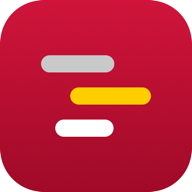
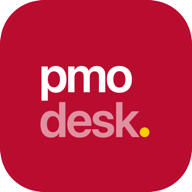
Add files via upload

Changed region(s): [[0.1875, 0.2812, 0.8125, 0.7188], [0.125, 0.9375, 0.875, 1.0]]

diff --git a/js/app.js b/js/app.js
@@ -27,12 +27,12 @@ export const app = {
 
 // ---------- Modal y toast ----------
 const modalEl = document.getElementById('modal');
-export function openModal(title, bodyHTML, { onSubmit, submitLabel = 'Guardar', onOpen, extraFooter = '' } = {}) {
+export function openModal(title, bodyHTML, { onSubmit, submitLabel = 'Guardar', onOpen, extraFooter = '', cancelLabel = 'Cancelar' } = {}) {
   modalEl.innerHTML = `
     <form class="sheet" novalidate>
       <header><h2>${esc(title)}</h2><button type="button" class="btn icon" data-close aria-label="Cerrar">${icon('x')}</button></header>
       <div class="body">${bodyHTML}</div>
-      <footer>${extraFooter}<button type="button" class="btn" data-close>Cancelar</button>
+      <footer>${extraFooter}<button type="button" class="btn ${onSubmit ? '' : 'primary'}" data-close>${esc(cancelLabel)}</button>
         ${onSubmit ? `<button type="submit" class="btn primary">${esc(submitLabel)}</button>` : ''}</footer>
     </form>`;
   modalEl.hidden = false;
@@ -196,6 +196,78 @@ window.addEventListener('hashchange', () => {
   app._keepScroll = true;
 });
 
+// Pantalla de bienvenida (≈3 s, un toque la adelanta al final):
+//   1. aparece el punto amarillo al centro
+//   2. el punto se recorre a la derecha y devela «desk»
+//   3. «pmo» sale de detrás de «desk» subiendo a su lugar
+//   4. el punto se expande a toda la pantalla y la intro se desvanece
+function runSplash() {
+  const el = document.getElementById('splash');
+  if (!el) return;
+  try { sessionStorage.setItem('pmo-splash', '1'); } catch { /* sin almacenamiento */ }
+  const $ = s => el.querySelector(s);
+  const dot = $('.dot'), desk = $('.desk'), pmo = $('.pmo'), tag = $('.splash-tag');
+  const remove = () => el.remove();
+
+  if (matchMedia('(prefers-reduced-motion: reduce)').matches || !dot.animate) {
+    el.classList.add('static');
+    setTimeout(() => { el.style.transition = 'opacity .3s'; el.style.opacity = '0'; setTimeout(remove, 350); }, 1000);
+    el.addEventListener('click', remove, { once: true });
+    return;
+  }
+
+  const box = el.getBoundingClientRect();
+  const d = dot.getBoundingClientRect();
+  const k = desk.getBoundingClientRect();
+  const cx = box.width / 2, cy = box.height / 2;
+  // Al inicio el logotipo se corre para que el borde izquierdo de «desk» quede al centro de la pantalla,
+  // justo donde nace el punto. Luego el punto avanza a la derecha y «desk» se devela detrás de él
+  // mientras el logotipo vuelve a quedar centrado.
+  const shift = cx - k.left;
+  const dx = k.left - (d.left + d.width / 2), dy = cy - (d.top + d.height / 2);
+  const t = (delay, duration, easing) => ({ delay, duration, easing, fill: 'both' });
+  const ease = 'cubic-bezier(.65,0,.35,1)';
+  const logo = $('.splash-logo');
+
+  const anims = [
+    logo.animate([{ transform: `translateX(${shift}px)` }, { transform: 'translateX(0px)' }], t(675, 725, ease)),
+    dot.animate([
+      { transform: `translate(${dx}px, ${dy}px) scale(0)`, offset: 0, easing: 'cubic-bezier(.3,1.6,.5,1)' },
+      { transform: `translate(${dx}px, ${dy}px) scale(1)`, offset: 0.32 },
+      { transform: `translate(${dx}px, ${dy}px) scale(1)`, offset: 0.42, easing: ease },
+      { transform: 'translate(0px, 0px) scale(1)', offset: 1 }
+    ], t(150, 1250)),
+    desk.animate([
+      { clipPath: `inset(-20% ${k.width}px -20% 0px)` },
+      { clipPath: 'inset(-20% 0px -20% 0px)' }
+    ], t(675, 725, ease)),
+    pmo.animate([{ transform: 'translateY(115%)' }, { transform: 'translateY(0%)' }], t(1400, 650, 'cubic-bezier(.2,.9,.3,1)')),
+    tag.animate([{ opacity: 0, transform: 'translateY(6px)' }, { opacity: 1, transform: 'none' }], t(1750, 450, 'ease'))
+  ];
+
+  let leaving = false;
+  function leave(delay) {
+    if (leaving) return;
+    leaving = true;
+    if (delay === 0) anims.forEach(a => a.finish());
+    // Capa amarilla a pantalla completa recortada en círculo desde el punto: crece nítida, sin pixelarse.
+    const r = dot.getBoundingClientRect();
+    const x = r.left + r.width / 2 - box.left, y = r.top + r.height / 2 - box.top;
+    const R = Math.hypot(Math.max(x, box.width - x), Math.max(y, box.height - y)) + 2;
+    const fill = document.createElement('div');
+    fill.className = 'splash-fill';
+    el.appendChild(fill);
+    fill.animate([
+      { clipPath: `circle(${r.width / 2}px at ${x}px ${y}px)` },
+      { clipPath: `circle(${R}px at ${x}px ${y}px)` }
+    ], t(delay, 650, 'cubic-bezier(.7,0,.84,0)'));
+    el.animate([{ opacity: 1 }, { opacity: 0 }], t(delay + 620, 420, 'ease')).finished.then(remove, remove);
+  }
+  anims[0].finished.then(() => setTimeout(() => leave(0), 1000)).catch(() => {});
+  el.addEventListener('click', () => leave(0), { once: true });
+}
+runSplash();
+
 async function init() {
   app.state = await loadState();
   app.route = parseHash();
@@ -207,4 +279,6 @@ async function init() {
   }
 }
 
+import { initInstall } from './install.js';
 init();
+initInstall();

diff --git a/js/install.js b/js/install.js
@@ -1,0 +1,74 @@
+// Instalación en la pantalla de inicio (PWA).
+// Android / Chrome / Edge: usa el diálogo nativo de instalación.
+// iPhone / iPad: Apple no permite instalar con un botón, así que se muestran los pasos guiados.
+import { openModal, toast } from './app.js';
+
+let deferredPrompt = null;
+const DISMISS_KEY = 'pmo-install-dismissed';
+
+export const isStandalone = () =>
+  matchMedia('(display-mode: standalone)').matches || navigator.standalone === true;
+const ua = navigator.userAgent;
+const isIOS = /iphone|ipad|ipod/i.test(ua) || (navigator.platform === 'MacIntel' && navigator.maxTouchPoints > 1);
+const isIOSSafari = isIOS && !/crios|fxios|edgios/i.test(ua);
+const isMobile = isIOS || /android/i.test(ua);
+
+export const canInstall = () => !isStandalone() && (!!deferredPrompt || isIOS || isMobile);
+
+const shareIcon = `<svg viewBox="0 0 24 24" width="18" height="18" fill="none" stroke="currentColor" stroke-width="2" stroke-linecap="round" stroke-linejoin="round" style="vertical-align:-3px;color:#0a84ff"><path d="M12 3v12M8 7l4-4 4 4"/><path d="M6 11H5a2 2 0 0 0-2 2v6a2 2 0 0 0 2 2h14a2 2 0 0 0 2-2v-6a2 2 0 0 0-2-2h-1"/></svg>`;
+const plusIcon = `<svg viewBox="0 0 24 24" width="18" height="18" fill="none" stroke="currentColor" stroke-width="2" stroke-linecap="round" style="vertical-align:-3px"><rect x="3" y="3" width="18" height="18" rx="4"/><path d="M12 8v8M8 12h8"/></svg>`;
+
+export async function installApp() {
+  if (isStandalone()) return toast('La app ya está instalada');
+  if (deferredPrompt) {
+    deferredPrompt.prompt();
+    const { outcome } = await deferredPrompt.userChoice;
+    deferredPrompt = null;
+    hideBanner();
+    if (outcome === 'accepted') toast('¡Listo! Búscala en tu pantalla de inicio');
+    return;
+  }
+  const steps = isIOS
+    ? `${!isIOSSafari ? '<p class="notice">Para instalarla en iPhone, abre esta página en <b>Safari</b>.</p>' : ''}
+       <ol class="install-steps">
+         <li><span>1</span><div>Toca el botón <b>Compartir</b> ${shareIcon} en la barra de Safari (abajo, o arriba en iPad).</div></li>
+         <li><span>2</span><div>Desliza hacia abajo y toca <b>Agregar a inicio</b> ${plusIcon}.</div></li>
+         <li><span>3</span><div>Toca <b>Agregar</b>. El ícono de PMO Desk aparecerá en tu pantalla de inicio.</div></li>
+       </ol>`
+    : `<ol class="install-steps">
+         <li><span>1</span><div>Abre el menú del navegador <b>⋮</b> (arriba a la derecha).</div></li>
+         <li><span>2</span><div>Toca <b>Instalar app</b> o <b>Agregar a la pantalla principal</b>.</div></li>
+         <li><span>3</span><div>Confirma con <b>Instalar</b>.</div></li>
+       </ol>
+       <p class="small muted">En PC: usa el ícono de instalar en la barra de direcciones de Chrome o Edge.</p>`;
+  openModal('Instalar PMO Desk', `
+    <div style="display:flex;gap:14px;align-items:center;margin-bottom:14px">
+      <img src="icons/icon-192.png" alt="" width="56" height="56" style="border-radius:13px;box-shadow:0 2px 8px rgba(0,0,0,.15)">
+      <div><b>PMO Desk</b><div class="small muted">Funciona sin internet y se abre a pantalla completa, como cualquier app.</div></div>
+    </div>${steps}`, { cancelLabel: 'Entendido' });
+}
+
+function showBanner() {
+  if (document.getElementById('install-banner') || !canInstall()) return;
+  try { if (Date.now() - Number(localStorage.getItem(DISMISS_KEY) || 0) < 7 * 864e5) return; } catch { /* sin almacenamiento */ }
+  const el = document.createElement('div');
+  el.id = 'install-banner';
+  el.className = 'install-banner';
+  el.innerHTML = `<img src="icons/icon-192.png" alt="">
+    <div class="grow"><b>Instala PMO Desk</b><div class="small muted">Agrégala a tu pantalla de inicio</div></div>
+    <button class="btn primary sm" data-install>Instalar</button>
+    <button class="btn icon sm" data-dismiss aria-label="Cerrar">✕</button>`;
+  el.querySelector('[data-install]').onclick = installApp;
+  el.querySelector('[data-dismiss]').onclick = () => {
+    try { localStorage.setItem(DISMISS_KEY, String(Date.now())); } catch { /* sin almacenamiento */ }
+    hideBanner();
+  };
+  document.body.appendChild(el);
+}
+const hideBanner = () => document.getElementById('install-banner')?.remove();
+
+export function initInstall() {
+  window.addEventListener('beforeinstallprompt', e => { e.preventDefault(); deferredPrompt = e; showBanner(); });
+  window.addEventListener('appinstalled', () => { deferredPrompt = null; hideBanner(); });
+  if (isMobile) setTimeout(showBanner, 1500);
+}

diff --git a/css/styles.css b/css/styles.css
@@ -263,3 +263,38 @@ td input, td select { padding: 4px 6px; font-size: .86rem; }
 .notice a { color: inherit; font-weight: 600; text-decoration: underline; }
 .group-title { display: flex; align-items: center; gap: 8px; }
 .project-card h3 { font-size: 1.08rem; font-weight: 600; color: var(--text); text-transform: none; letter-spacing: -.015em; margin: 0; }
+
+/* Aviso de instalación */
+.install-banner {
+  position: fixed; left: 12px; right: 12px; bottom: calc(68px + env(safe-area-inset-bottom)); z-index: 40;
+  display: flex; align-items: center; gap: 12px; padding: 10px 10px 10px 12px; border-radius: 16px;
+  background: rgba(255,255,255,.9); backdrop-filter: saturate(180%) blur(20px); -webkit-backdrop-filter: saturate(180%) blur(20px);
+  box-shadow: 0 8px 30px rgba(0,0,0,.15); animation: pop .3s cubic-bezier(.2,.9,.3,1.1);
+}
+.install-banner img { width: 40px; height: 40px; border-radius: 10px; }
+.install-banner .grow { flex: 1; min-width: 0; line-height: 1.3; }
+.install-banner .btn.icon { color: var(--muted); background: none; }
+@media (min-width: 821px) { .install-banner { left: auto; right: 24px; bottom: 24px; width: 380px; } }
+.install-steps { list-style: none; padding: 0; margin: 0 0 8px; display: flex; flex-direction: column; gap: 12px; }
+.install-steps li { display: flex; gap: 12px; align-items: flex-start; }
+.install-steps li > span { flex: none; width: 26px; height: 26px; border-radius: 50%; background: var(--primary); color: #fff; display: grid; place-items: center; font-weight: 600; font-size: .85rem; }
+.install-steps li > div { padding-top: 3px; }
+
+/* Pantalla de bienvenida (la secuencia se anima desde js/app.js) */
+.splash {
+  position: fixed; inset: 0; z-index: 100; background: #ba0c2f; color: #fff; overflow: hidden;
+  display: flex; flex-direction: column; align-items: center; justify-content: center; gap: 22px; cursor: pointer;
+}
+.splash-logo { display: flex; flex-direction: column; font-family: var(--font); font-weight: 600;
+  font-size: clamp(64px, 18vw, 120px); line-height: .9; letter-spacing: -.045em; }
+.pmo-mask { overflow: hidden; padding-bottom: .16em; margin-bottom: -.16em; }
+.pmo { display: inline-block; transform: translateY(115%); }
+.desk-row { display: flex; align-items: flex-end; position: relative; z-index: 1; }
+.desk { color: rgba(255,255,255,.55); clip-path: inset(-20% 100% -20% 0); }
+.dot { display: block; width: .2em; height: .2em; border-radius: 50%; background: #ffcd00;
+  margin: 0 0 .06em .05em; transform: scale(0); position: relative; z-index: 2; }
+.splash-tag { font-size: .95rem; letter-spacing: .14em; text-transform: uppercase; color: rgba(255,255,255,.75); opacity: 0; }
+.splash.static .pmo, .splash.static .dot { transform: none; }
+.splash.static .desk { clip-path: none; }
+.splash.static .splash-tag { opacity: 1; }
+.splash-fill { position: absolute; inset: 0; background: #ffcd00; z-index: 3; clip-path: circle(0 at 50% 50%); }

diff --git a/js/views/ajustes.js b/js/views/ajustes.js
@@ -1,6 +1,7 @@
 import { app, toast, confirmDialog } from '../app.js';
 import { esc, today, download, pickFile } from '../utils.js';
 import { DEFAULT_STATE } from '../db.js';
+import { installApp, isStandalone } from '../install.js';
 
 const DAYS = ['Dom', 'Lun', 'Mar', 'Mié', 'Jue', 'Vie', 'Sáb'];
 
@@ -36,11 +37,12 @@ export function render(el) {
           <button class="btn primary" data-backup>Exportar respaldo</button>
           <button class="btn" data-restore>Importar respaldo</button>
         </div>
-        <hr style="border:0;border-top:1px solid var(--border);margin:16px 0">
-        <h3>Instalar en el celular o PC</h3>
-        <p class="small muted"><b>iPhone:</b> en Safari toca Compartir › “Agregar a inicio”.
-          <b>Android:</b> en Chrome, menú ⋮ › “Instalar app”. <b>PC:</b> en Chrome o Edge, ícono de instalar en la barra de direcciones.</p>
-        <hr style="border:0;border-top:1px solid var(--border);margin:16px 0">
+        <hr style="border:0;border-top:1px solid var(--separator);margin:16px 0">
+        <h3>App en tu pantalla de inicio</h3>
+        ${isStandalone() ? '<p class="small"><span class="chip ok">Instalada</span> Estás usando la app instalada.</p>'
+          : `<p class="small muted">Instálala para abrirla desde un ícono, a pantalla completa y sin internet.</p>
+             <button class="btn primary" data-install>Instalar app</button>`}
+        <hr style="border:0;border-top:1px solid var(--separator);margin:16px 0">
         <button class="btn danger" data-demo>Cargar datos de ejemplo</button>
         <button class="btn danger" data-wipe>Borrar todo</button>
       </div>
@@ -55,8 +57,9 @@ export function render(el) {
       hoursPerDay: n('hoursPerDay') || 8, workDays: DAYS.map((_, i) => i).filter(i => f.get('d' + i)) });
     app.commit(); toast('Jornada guardada');
   };
+  el.querySelector('[data-install]')?.addEventListener('click', installApp);
   el.querySelector('[data-backup]').onclick = () => {
-    download(`Respaldo PMO Obra ${today()}.json`, JSON.stringify(app.state, null, 1), 'application/json');
+    download(`Respaldo PMO Desk ${today()}.json`, JSON.stringify(app.state, null, 1), 'application/json');
   };
   el.querySelector('[data-restore]').onclick = async () => {
     const file = await pickFile('.json,application/json');

diff --git a/index.html b/index.html
@@ -3,19 +3,29 @@
 <head>
   <meta charset="utf-8">
   <meta name="viewport" content="width=device-width, initial-scale=1, viewport-fit=cover">
-  <title>PMO Obra</title>
+  <title>PMO Desk</title>
+  <meta name="apple-mobile-web-app-title" content="PMO Desk">
+  <meta name="application-name" content="PMO Desk">
   <meta name="theme-color" content="#f5f5f7">
   <meta name="apple-mobile-web-app-capable" content="yes">
   <meta name="apple-mobile-web-app-status-bar-style" content="default">
   <link rel="manifest" href="manifest.webmanifest">
   <link rel="icon" href="icons/icon.svg" type="image/svg+xml">
-  <link rel="apple-touch-icon" href="icons/icon-192.png">
+  <link rel="apple-touch-icon" href="icons/apple-touch-icon.png">
   <link rel="stylesheet" href="css/styles.css">
 </head>
 <body>
+  <div id="splash" class="splash" aria-hidden="true">
+    <div class="splash-logo">
+      <div class="pmo-mask"><span class="pmo">pmo</span></div>
+      <div class="desk-row"><span class="desk">desk</span><i class="dot"></i></div>
+    </div>
+    <div class="splash-tag">Gestión de proyectos</div>
+  </div>
+  <script>try { if (sessionStorage.getItem('pmo-splash')) document.getElementById('splash').remove(); } catch (e) {}</script>
   <div class="layout">
     <nav class="nav" id="nav">
-      <div class="brand"><img src="icons/icon.svg" alt="">PMO <span>Obra</span></div>
+      <div class="brand"><img src="icons/icon.svg" alt="">PMO <span>Desk</span></div>
       <a href="#agenda" data-tab="agenda"><svg class="i" viewBox="0 0 24 24" aria-hidden="true"><circle cx="12" cy="12" r="9"/><path d="M12 7v5l3 2"/></svg><span class="lg">Agenda</span><span class="sm">Agenda</span></a>
       <a href="#prioridades" data-tab="prioridades"><svg class="i" viewBox="0 0 24 24" aria-hidden="true"><path d="M5 21V4"/><path d="M5 4h12l-2.5 4.5L17 13H5"/></svg><span class="lg">Prioridades</span><span class="sm">Top</span></a>
       <a href="#proyectos" data-tab="proyectos"><svg class="i" viewBox="0 0 24 24" aria-hidden="true"><rect x="4" y="3" width="16" height="18" rx="2.5"/><path d="M9 21v-4h6v4M8.5 7.5h1M14.5 7.5h1M8.5 11.5h1M14.5 11.5h1"/></svg><span class="lg">Proyectos</span><span class="sm">Obras</span></a>

diff --git a/sw.js b/sw.js
@@ -1,11 +1,11 @@
 // Service worker: permite usar la app sin conexión.
-const CACHE = 'pmo-obra-v3';
+const CACHE = 'pmo-desk-v8';
 const ASSETS = [
   './', './index.html', './manifest.webmanifest', './css/styles.css',
-  './js/app.js', './js/db.js', './js/utils.js', './js/scheduler.js',
+  './js/app.js', './js/install.js', './js/db.js', './js/utils.js', './js/scheduler.js',
   './js/views/agenda.js', './js/views/prioridades.js', './js/views/proyectos.js',
   './js/views/calendario.js', './js/views/cronograma.js', './js/views/finanzas.js',
-  './js/views/ajustes.js', './icons/icon.svg', './icons/icon-192.png', './icons/icon-512.png'
+  './js/views/ajustes.js', './icons/icon.svg', './icons/icon-192.png', './icons/icon-512.png', './icons/icon-maskable-512.png', './icons/apple-touch-icon.png'
 ];
 
 self.addEventListener('install', e => {

diff --git a/js/views/calendario.js b/js/views/calendario.js
@@ -90,7 +90,7 @@ export function exportICS(events, name) {
   const icsEsc = s => String(s || '').replace(/\\/g, '\\\\').replace(/;/g, '\\;').replace(/,/g, '\\,').replace(/\n/g, '\\n');
   const dt = (date, time) => date.replace(/-/g, '') + 'T' + (time || '09:00').replace(':', '') + '00';
   const stamp = new Date().toISOString().replace(/[-:]/g, '').slice(0, 15) + 'Z';
-  const lines = ['BEGIN:VCALENDAR', 'VERSION:2.0', 'PRODID:-//PMO Obra//ES', 'CALSCALE:GREGORIAN', 'METHOD:PUBLISH'];
+  const lines = ['BEGIN:VCALENDAR', 'VERSION:2.0', 'PRODID:-//PMO Desk//ES', 'CALSCALE:GREGORIAN', 'METHOD:PUBLISH'];
   for (const e of events) {
     lines.push('BEGIN:VEVENT', `UID:${e.id}@pmo-obra`, `DTSTAMP:${stamp}`,
       `DTSTART:${dt(e.date, e.start)}`, `DTEND:${dt(e.date, e.end || e.start)}`,

diff --git a/README.md b/README.md
@@ -1,4 +1,4 @@
-# PMO Obra
+# PMO Desk
 
 App personal de gestión de proyectos de obra (PWA) para celular y PC. Funciona sin internet y guarda los datos en el dispositivo.
 
